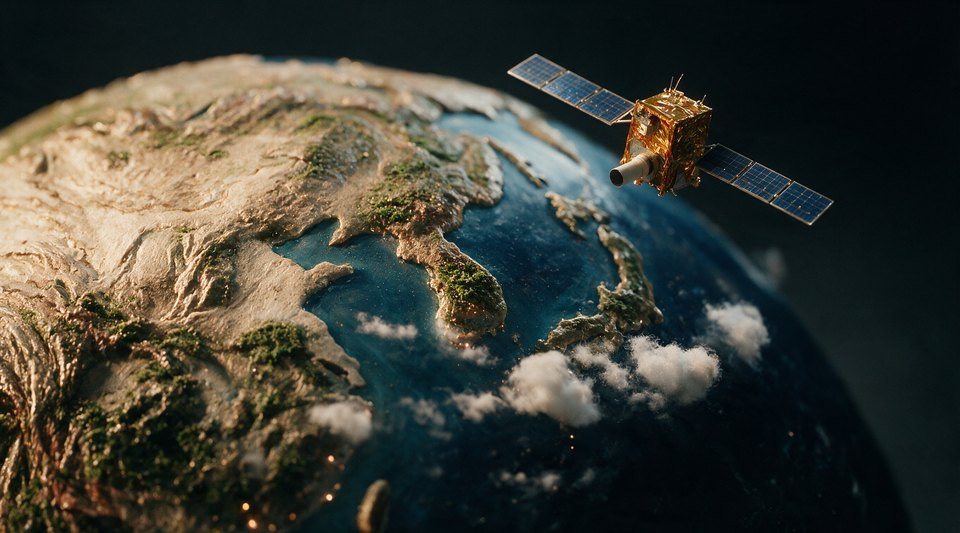
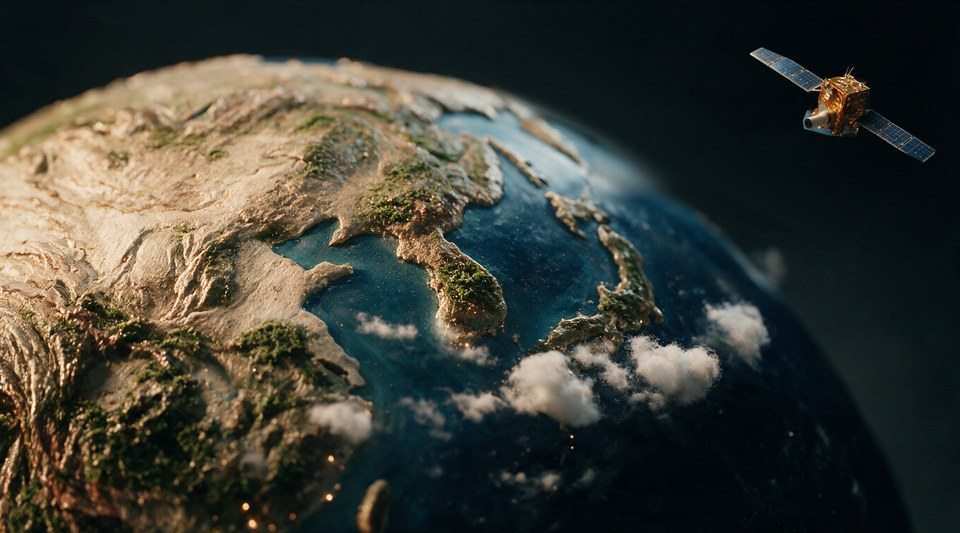
feat(anchors): rev.3m — A02 합성, rev.3l 위성 60 % 축소해 지구본 밖 우상 재배치·림 방향 이방성 치유 (kie 호출 0, 크레딧 0)
- tools/proto/a02-rev3m-composite.py: 실루엣 다각형∩색 키 매트(grabCut 폐기), 림 29° 정렬 이방성 정규화 컨볼루션 치유
- 날개폭 33.8 % → 19.4 %, A02.v3l.* 백업, sheet 3l|3m, review A02-new.jpg, 캡션, md §18

Claude-Session: https://claude.ai/code/session_01WM9MJXSpdbCfwY8af3obk9

Changed region(s): [[0.5312, 0.0901, 0.875, 0.4203], [0.7812, 0.0901, 0.9688, 0.3002]]

diff --git a/landxi/proto/film/anchors.html b/landxi/proto/film/anchors.html
@@ -1,4 +1,4 @@
 <!doctype html><html lang="ko"><head><meta charset="utf-8"><title>앵커 스틸 v3</title>
 <link rel="stylesheet" href="../fonts-system.css"><style>body{margin:0;background:#010102;color:#ccc;font:14px/1.5 Pretendard,system-ui,sans-serif}h1{font-family:Paperlogy,Pretendard,sans-serif;font-weight:700;font-size:18px;letter-spacing:.06em;padding:20px 24px;margin:0;border-bottom:1px solid #272727}
 .g{display:grid;grid-template-columns:repeat(auto-fill,minmax(440px,1fr));gap:24px;padding:24px}figure{margin:0}img{width:100%;display:block;border:1px solid #272727}figcaption{padding:8px 2px;font-size:14px;color:#8a8a8a;letter-spacing:.04em}</style></head>
-<body><h1>앵커 스틸 · 14장</h1><div class="g"><figure><img src="../../assets/proto/film/legs/anchors-v3/A01.jpg" loading="lazy"><figcaption>A01 모형 지구본 — 링·암 제거, 우상 전경에 국토위성(CAS500-1)형 모형: 금박 버스 + 청색 태양전지 날개 2 + 흰 망원경 배럴, rev.3i 위성을 잘라 50 % 축소해 한반도 상공 우상에 합성(날개폭 프레임 폭 13.6 %), 원위치는 암부 클론으로 치유 (rev.3k, 합성 · 크레딧 0 · 클라이언트 검토용)</figcaption></figure><figure><img src="../../assets/proto/film/legs/anchors-v3/A02.jpg" loading="lazy"><figcaption>A02 고궤도·한반도 — 링 제거, A01 과 같은 국토위성(CAS500-1)형 모형이 우상 한반도 상공 (rev.3l, 1회 리롤 · 위성이 요청보다 큼 ~33 %)</figcaption></figure><figure><img src="../../assets/proto/film/legs/anchors-v3/A03.jpg" loading="lazy"><figcaption>A03 구름 천장 — 드론 흰 본체·검정 프로펠러·초록 LX 마크(D16 ①), 하단 1/3 공중 부양, 항공기 우상단 (rev.3l, 1회 리롤)</figcaption></figure><figure><img src="../../assets/proto/film/legs/anchors-v3/A04.jpg" loading="lazy"><figcaption>A04 능선 너머 남원 분지 — 소품 0 (rev.3)</figcaption></figure><figure><img src="../../assets/proto/film/legs/anchors-v3/A05.jpg" loading="lazy"><figcaption>A05 남원 평야·농지이용 — 프롭 0, 회색 판 제거 (rev.3d, 1회 리롤 · 좌측 도로 환각)</figcaption></figure><figure><img src="../../assets/proto/film/legs/anchors-v3/A06.jpg" loading="lazy"><figcaption>A06 금지면 비닐하우스 — 프롭 0, 구름·좌측 구조물 제거 (rev.3e, 1회 리롤)</figcaption></figure><figure><img src="../../assets/proto/film/legs/anchors-v3/A06b.jpg" loading="lazy"><figcaption>A06b 남원 상공 고고도 — 같은 온실 군락이 중앙-좌에 그대로, 카메라만 상승·곡률·헤이즈 (rev.3f, 1회 리롤)</figcaption></figure><figure><img src="../../assets/proto/film/legs/anchors-v3/A07.jpg" loading="lazy"><figcaption>A07 지구본 이동→여수 — 농지가 해안까지 완만히 내려와 마을과 같은 높이, 고원·절벽 없음 (rev.3e, 1회 리롤)</figcaption></figure><figure><img src="../../assets/proto/film/legs/anchors-v3/A08.jpg" loading="lazy"><figcaption>A08 여수 국동항·해양쓰레기 — 방파제 발치 해안선 클로즈업, 조간대 스티로폼·부표·그물 다량 (rev.3f, 1회 리롤)</figcaption></figure><figure><img src="../../assets/proto/film/legs/anchors-v3/A08b.jpg" loading="lazy"><figcaption>A08b 여수 상공 고고도 — 방파제·항만이 좌하 멀리, 코발트 바다 하단 절반, 곡률·헤이즈, 북동 원경에 영남 능선 시작 (rev.3g, 신규 1회)</figcaption></figure><figure><img src="../../assets/proto/film/legs/anchors-v3/A09.jpg" loading="lazy"><figcaption>A09 지구본 이동→울주 — A08b 와 같은 지형을 북동 이동·하강해 본 것, 같은 해안선 좌하로, 이끼 능선·펠트 필지가 프레임 채움, 급경사지 절개면, 마을·항만 없음 (rev.3h, 1회 리롤)</figcaption></figure><figure><img src="../../assets/proto/film/legs/anchors-v3/A10.jpg" loading="lazy"><figcaption>A10 산림식생·급경사지</figcaption></figure><figure><img src="../../assets/proto/film/legs/anchors-v3/A11.jpg" loading="lazy"><figcaption>A11 불법소각 — 산자락 소면적 공터, 연소 중</figcaption></figure><figure><img src="../../assets/proto/film/legs/anchors-v3/A12.jpg" loading="lazy"><figcaption>A12 국토 변화(데이터 관점) — 황동 격자·측정 셀 점등, 링 없음, 소형 국토위성이 우상에 복귀 (rev.3l, 1회 리롤)</figcaption></figure></div></body></html>
+<body><h1>앵커 스틸 · 14장</h1><div class="g"><figure><img src="../../assets/proto/film/legs/anchors-v3/A01.jpg" loading="lazy"><figcaption>A01 모형 지구본 — 링·암 제거, 우상 전경에 국토위성(CAS500-1)형 모형: 금박 버스 + 청색 태양전지 날개 2 + 흰 망원경 배럴, rev.3i 위성을 잘라 50 % 축소해 한반도 상공 우상에 합성(날개폭 프레임 폭 13.6 %), 원위치는 암부 클론으로 치유 (rev.3k, 합성 · 크레딧 0 · 클라이언트 검토용)</figcaption></figure><figure><img src="../../assets/proto/film/legs/anchors-v3/A02.jpg" loading="lazy"><figcaption>A02 고궤도·한반도 — 링 제거, A01 과 같은 국토위성(CAS500-1)형 모형, rev.3l 위성(날개폭 33.8 %)을 잘라 60 % 축소해 지구본 밖 우상 암부에 합성(날개폭 19.4 %, 배럴 한반도 쪽), 원위치는 림 방향 이방성 클론으로 치유 (rev.3m, 합성 · 크레딧 0)</figcaption></figure><figure><img src="../../assets/proto/film/legs/anchors-v3/A03.jpg" loading="lazy"><figcaption>A03 구름 천장 — 드론 흰 본체·검정 프로펠러·초록 LX 마크(D16 ①), 하단 1/3 공중 부양, 항공기 우상단 (rev.3l, 1회 리롤)</figcaption></figure><figure><img src="../../assets/proto/film/legs/anchors-v3/A04.jpg" loading="lazy"><figcaption>A04 능선 너머 남원 분지 — 소품 0 (rev.3)</figcaption></figure><figure><img src="../../assets/proto/film/legs/anchors-v3/A05.jpg" loading="lazy"><figcaption>A05 남원 평야·농지이용 — 프롭 0, 회색 판 제거 (rev.3d, 1회 리롤 · 좌측 도로 환각)</figcaption></figure><figure><img src="../../assets/proto/film/legs/anchors-v3/A06.jpg" loading="lazy"><figcaption>A06 금지면 비닐하우스 — 프롭 0, 구름·좌측 구조물 제거 (rev.3e, 1회 리롤)</figcaption></figure><figure><img src="../../assets/proto/film/legs/anchors-v3/A06b.jpg" loading="lazy"><figcaption>A06b 남원 상공 고고도 — 같은 온실 군락이 중앙-좌에 그대로, 카메라만 상승·곡률·헤이즈 (rev.3f, 1회 리롤)</figcaption></figure><figure><img src="../../assets/proto/film/legs/anchors-v3/A07.jpg" loading="lazy"><figcaption>A07 지구본 이동→여수 — 농지가 해안까지 완만히 내려와 마을과 같은 높이, 고원·절벽 없음 (rev.3e, 1회 리롤)</figcaption></figure><figure><img src="../../assets/proto/film/legs/anchors-v3/A08.jpg" loading="lazy"><figcaption>A08 여수 국동항·해양쓰레기 — 방파제 발치 해안선 클로즈업, 조간대 스티로폼·부표·그물 다량 (rev.3f, 1회 리롤)</figcaption></figure><figure><img src="../../assets/proto/film/legs/anchors-v3/A08b.jpg" loading="lazy"><figcaption>A08b 여수 상공 고고도 — 방파제·항만이 좌하 멀리, 코발트 바다 하단 절반, 곡률·헤이즈, 북동 원경에 영남 능선 시작 (rev.3g, 신규 1회)</figcaption></figure><figure><img src="../../assets/proto/film/legs/anchors-v3/A09.jpg" loading="lazy"><figcaption>A09 지구본 이동→울주 — A08b 와 같은 지형을 북동 이동·하강해 본 것, 같은 해안선 좌하로, 이끼 능선·펠트 필지가 프레임 채움, 급경사지 절개면, 마을·항만 없음 (rev.3h, 1회 리롤)</figcaption></figure><figure><img src="../../assets/proto/film/legs/anchors-v3/A10.jpg" loading="lazy"><figcaption>A10 산림식생·급경사지</figcaption></figure><figure><img src="../../assets/proto/film/legs/anchors-v3/A11.jpg" loading="lazy"><figcaption>A11 불법소각 — 산자락 소면적 공터, 연소 중</figcaption></figure><figure><img src="../../assets/proto/film/legs/anchors-v3/A12.jpg" loading="lazy"><figcaption>A12 국토 변화(데이터 관점) — 황동 격자·측정 셀 점등, 링 없음, 소형 국토위성이 우상에 복귀 (rev.3l, 1회 리롤)</figcaption></figure></div></body></html>

diff --git a/tools/proto/a02-rev3m-composite.py b/tools/proto/a02-rev3m-composite.py
@@ -1,0 +1,102 @@
+#!/usr/bin/env python
+# -*- coding: utf-8 -*-
+"""A02 rev.3m — rev.3l 위성(날개폭 프레임 폭 ≈33 %)만 잘라 60 % 축소, 우상 암부(지구본 밖)로 재배치, 원위치는 배경 클론으로 치유. 크레딧 0.
+rev.3k(tools/proto/a01-rev3k-composite.py) 와 같은 방법.
+
+  python tools/proto/a02-rev3m-composite.py [shots_dir]
+"""
+import sys
+from pathlib import Path
+import numpy as np, cv2
+from PIL import Image
+
+ROOT = Path(__file__).resolve().parents[2]
+DIR = ROOT / 'landxi/assets/proto/film/legs/anchors-v3'
+SCR = Path(sys.argv[1]) if len(sys.argv) > 1 else ROOT / 'shots/kie'
+SCALE = 0.6
+ROT = -6.0          # deg, ccw+ : 배럴(좌하)을 한반도 쪽으로 조금 더 숙임
+LUM_T, BLUE_T = 40, 18
+HEAL_DIL, LOW_SIG, LIMB_ANG = 25, 20, 29.0   # LIMB_ANG: 디포커스 림 기울기(deg, 우하향)   # rev.3k 는 41/60 — 여기선 좌 날개가 디포커스 림 헤이즈 위라 좁은 시그마로 그라데이션 보존
+DEST = (2400, 300)  # 새 위성 중심 (full-res 2736x1520) — 지구본 림 밖 암부
+
+src = np.asarray(Image.open(DIR / 'A02.v3l.png').convert('RGB')).astype(np.float32)
+H, W, _ = src.shape
+
+# 1) 위성 매트: 수동 실루엣 다각형(넉넉히) ∩ 색 키(암부 우주 배경 대비 밝기/청색) → 닫힘·구멍 채움.
+#    grabCut 은 지구본 헤이즈를 삼키고 버스 그늘면·짙은 셀을 놓쳐 폐기.
+x0, y0, x1, y1 = 1400, 100, 2450, 700
+roi = np.ascontiguousarray(src[y0:y1, x0:x1].astype(np.uint8))
+f = roi.astype(np.float32); lum = f.max(axis=2); blue = f[..., 2] - f[..., 1]
+SIL = np.array([(60, 58), (415, 168), (500, 172), (508, 110), (540, 115), (600, 170), (632, 205), (645, 300), (978, 445), (945, 540),
+                (585, 400), (560, 450), (455, 450), (340, 432), (330, 395), (345, 345), (395, 330), (390, 262), (345, 262), (42, 110)], np.int32)  # ROI 좌표
+poly = np.zeros(roi.shape[:2], np.uint8); cv2.fillPoly(poly, [SIL], 1)
+key = ((poly > 0) & ((lum > LUM_T) | (blue > BLUE_T))).astype(np.uint8)
+BUS = np.array([(408, 180), (500, 172), (585, 165), (628, 212), (636, 300), (600, 385), (588, 445), (462, 448), (455, 430), (400, 340), (398, 262), (405, 180)], np.int32)
+cv2.fillPoly(key, [BUS], 1)                                                # 버스 그늘면(lum≈23, 배경과 동급)은 다각형으로 강제
+key = cv2.morphologyEx(key, cv2.MORPH_CLOSE, np.ones((7, 7), np.uint8))
+ff = key.copy(); hh, ww = key.shape
+mask = np.zeros((hh + 2, ww + 2), np.uint8); cv2.floodFill(ff, mask, (0, 0), 1)
+key = (key | (1 - ff)).astype(np.uint8)                                   # 버스 내부 구멍 채움
+n, lab, st, _ = cv2.connectedComponentsWithStats(key, 8)
+areas = st[:, cv2.CC_STAT_AREA].copy(); areas[0] = 0
+key = np.isin(lab, np.argsort(areas)[::-1][:3]).astype(np.uint8)          # 본체+날개 덩어리만
+ys, xs = np.where(key); bx0, bx1, by0, by1 = xs.min(), xs.max(), ys.min(), ys.max()
+print('satellite bbox (full-res)', x0 + bx0, y0 + by0, x0 + bx1, y0 + by1, 'w=', bx1 - bx0, f'{(bx1-bx0)/W*100:.1f}% of W')
+alpha = cv2.GaussianBlur(key.astype(np.float32), (0, 0), 1.2)
+alpha = np.clip((alpha - 0.25) / 0.6, 0, 1)
+alpha = cv2.dilate(alpha, np.ones((3, 3), np.uint8))
+alpha = cv2.GaussianBlur(alpha, (0, 0), 0.8)
+vis = roi.copy(); cv2.polylines(vis, [SIL], True, (0, 255, 0), 1); vis[key > 0] = (vis[key > 0] * 0.4 + np.array([255, 0, 255]) * 0.6).astype(np.uint8)
+Image.fromarray(vis).save(SCR / 'A02-v3m-key.png')
+
+# 2) 치유: 위성 영역을 인접 암부로 채움 (정규화 컨볼루션 저주파 + 배경 그레인)
+near = cv2.dilate(poly, np.ones((61, 61), np.uint8))
+extra = (near > 0) & (lum > 35)                                             # 실루엣 밖 얇은 날개 림·부속물도 치유 대상
+heal = cv2.dilate((key | extra).astype(np.uint8), np.ones((HEAL_DIL, HEAL_DIL), np.uint8))
+full_heal = np.zeros((H, W), np.uint8); full_heal[y0:y1, x0:x1] = heal
+clean = (1 - full_heal).astype(np.float32)
+# 림 방향 이방성 정규화 컨볼루션: 이 자리 배경은 디포커스 림(약 +29°, 우하향)을 따라 평행 이동 불변이므로, 림이 수평이 되게 돌린 뒤
+# 림 방향으로는 길고(σx) 림을 가로질러서는 짧은(σy) 가우시안으로 채운다. 등방성으로 채우면 아래 밝은 바다 헤이즈가 우주로 번져 '안개 혀'가 생김.
+diag = int(np.hypot(H, W)) + 2; cx, cy = W / 2, H / 2
+Mr = cv2.getRotationMatrix2D((cx, cy), LIMB_ANG, 1.0); Mr[0, 2] += diag / 2 - cx; Mr[1, 2] += diag / 2 - cy
+Mi = cv2.invertAffineTransform(Mr)
+rot = lambda im: cv2.warpAffine(im, Mr, (diag, diag), flags=cv2.INTER_LINEAR, borderValue=0)
+src_r = rot(src); clean_r = rot(clean) * rot(np.ones((H, W), np.float32))   # 캔버스 밖은 clean 0
+low_r = None
+for sx, sy in ((LOW_SIG * 12, LOW_SIG), (LOW_SIG * 6, LOW_SIG * 0.6), (LOW_SIG * 3, LOW_SIG * 0.4)):   # 굵은 → 고운 순
+    num = cv2.GaussianBlur(src_r * clean_r[..., None], (0, 0), sigmaX=sx, sigmaY=sy); den = cv2.GaussianBlur(clean_r, (0, 0), sigmaX=sx, sigmaY=sy)[..., None]
+    cur = num / np.maximum(den, 1e-3); w = np.clip(den / 0.25, 0, 1)
+    low_r = cur if low_r is None else low_r * (1 - w) + cur * w
+low = cv2.warpAffine(low_r, Mi, (W, H), flags=cv2.INTER_LINEAR)
+grain_src = src[100:500, 2450:2736]        # 우상 clean 암부
+g = grain_src - cv2.GaussianBlur(grain_src, (0, 0), 14)
+tile = np.pad(g, ((0, H), (0, W), (0, 0)), mode='reflect')[:H, :W]
+healed = low + tile
+hm = cv2.GaussianBlur(full_heal.astype(np.float32), (0, 0), 8)[..., None]
+plate = src * (1 - hm) + healed * hm
+
+# 3) 위성 축소·회전·배치
+sat = roi[by0:by1 + 1, bx0:bx1 + 1]; a = alpha[by0:by1 + 1, bx0:bx1 + 1]
+rgba = np.dstack([sat, a[..., None] * 255]).astype(np.float32)
+sh, sw = rgba.shape[:2]
+M = cv2.getRotationMatrix2D((sw / 2, sh / 2), ROT, SCALE)
+out_w, out_h = int(sw * 0.7), int(sh * 0.9)
+M[0, 2] += out_w / 2 - sw / 2; M[1, 2] += out_h / 2 - sh / 2
+small = cv2.warpAffine(rgba, M, (out_w, out_h), flags=cv2.INTER_AREA, borderValue=(0, 0, 0, 0))
+sa = small[..., 3:4] / 255
+ys, xs = np.where(sa[..., 0] > 0.02)
+print('placed wingspan', xs.max() - xs.min(), f'{(xs.max()-xs.min())/W*100:.1f}% of W')
+px, py = DEST[0] - out_w // 2, DEST[1] - out_h // 2
+region = plate[py:py + out_h, px:px + out_w]
+plate[py:py + out_h, px:px + out_w] = region * (1 - sa) + small[..., :3] * sa
+print('placed bbox', px + xs.min(), py + ys.min(), px + xs.max(), py + ys.max())
+
+out = Image.fromarray(np.clip(plate, 0, 255).astype(np.uint8))
+out.save(DIR / 'A02.png'); out.save(DIR / 'A02.jpg', quality=92)
+out.resize((1280, round(1280 * H / W)), Image.LANCZOS).save(DIR / 'A02.1280.jpg', quality=90)
+# 검토용 100 % 크롭 (치유부 + 새 위성) 및 3.5× 게인
+crop = np.clip(plate[0:760, 1350:2736], 0, 255)
+Image.fromarray(crop.astype(np.uint8)).save(SCR / 'A02-v3m-crop100.png')
+Image.fromarray(np.clip(crop * 3.5, 0, 255).astype(np.uint8)).save(SCR / 'A02-v3m-crop100-gain.png')
+Image.fromarray(np.clip(np.hstack([src[0:760, 1350:2736], plate[0:760, 1350:2736]]), 0, 255).astype(np.uint8)).resize((1386, 380)).save(SCR / 'A02-v3m-heal-ab.png')
+print('done')

diff --git a/docs/superpowers/proto/2026-08-26-anchors-v3.md b/docs/superpowers/proto/2026-08-26-anchors-v3.md
@@ -1278,3 +1278,33 @@ The peninsula stays dead centre and in frame throughout, the etched brass grid s
 
 - 클라이언트 확인 → leg 1/2/3/11/12 영상 재생성(모션 프롬프트는 이미 rev.3l 로 갱신, §17-2). §16-4 대로 leg 1 하나 먼저 돌려 kling 이 위성을 키우지 않는지 확인.
 - A02 위성 축소·A03 LX 마크 교체는 합성(크레딧 0) 옵션.
+
+## 18. 실행 기록 — 2026-08-29 rev.3m A02 합성 — rev.3l 위성 60 % 축소 재배치 (kie 호출 0, 크레딧 0)
+
+§17-4 의 △(A02 위성 33 %) 를 §17-5 옵션대로 **리롤 없이 합성**. 목표 ≈20 % (leg 1 dolly-in: A01 rev.3k 13.6 % 의 ≈1.5배).
+
+### 18-1. 방법 (`tools/proto/a02-rev3m-composite.py`, Python · OpenCV · PIL, 결정적·재실행 가능 — rev.3k 스크립트 기반)
+
+| 단계 | 내용 |
+|---|---|
+| 베이스 | `A02.v3l.png` (2736×1520, rev.3l 백업 `A02.v3l.png/.jpg`). |
+| 매트 | rev.3k 의 grabCut 은 여기선 **지구본 헤이즈를 삼키고 버스 그늘면(lum≈23, 배경과 동급)·짙은 셀을 놓쳐 폐기**. 대신 수동 실루엣 다각형(20점, 넉넉히) ∩ 색 키(lum>40 ∨ B−G>18) → 7px 닫힘 → 구멍 채움, 버스는 별도 14점 다각형으로 강제. 경계 σ1.2 페더 + 3px 확장. 원본 날개폭 926 px(프레임 폭 33.8 %). |
+| 치유 | 매트 ∪ (실루엣 근방 lum>35 얇은 림·부속물) 을 25 px 확장. 저주파는 **림 방향 이방성 정규화 컨볼루션**: 디포커스 림이 +29° 우하향이라 프레임을 29° 돌려 림을 수평으로 만든 뒤 σx 240/120/60 × σy 20/12/8 (굵은→고운, clean 지지 충분한 곳만 고운 값) 로 채우고 되돌림. rev.3k 의 등방성 σ60 은 아래 밝은 바다 헤이즈를 우주로 끌어올려 **회색 '안개 혀'** 가 생겼고, σ30 은 버스 중심(지지 0)이 검게 꺼졌다. 고주파는 우상 clean 암부(x 2450–2736, y 100–500) 그레인 σ14 고역 reflect 타일링, σ8 소프트 마스크 블렌드. |
+| 축소·배치 | 60 % (INTER_AREA), −6° 회전. 중심 (2400, 300) → bbox x 2135–2667, y 132–466, **날개폭 532 px = 프레임 폭 19.4 %**. 지구본 림 밖 순수 암부, 겹침 없음, 흰 배럴 좌하(한반도 방향). |
+| 산출 | `A02.png/.jpg`, `A02.1280.jpg`, `shots/kie/anchors-v3m-sheet.jpg`(3l \| 3m), `shots/kie/A02-v3m-crop100.png`, `landxi/assets/proto/review/A02-new.jpg`(960w, 덮어씀). |
+
+### 18-2. 크레딧
+
+kie 호출 **0**, 과금 **0**. 잔액 9117.0 유지.
+
+### 18-3. 판정 (100 % 크롭 + 3.5× 게인 검사)
+
+| 항목 | 판정 | 근거 |
+|---|:-:|---|
+| 위성 크기 | **○** | 33.8 % → 19.4 %, 목표 ≈20 %. A01 13.6 % → A02 19.4 % → A12 ≈18 % 로 세 스틸의 위성 크기가 dolly 배율 안에서 일관. |
+| 위치·조준 | **○** | 지구본 밖 우상 암부, 배럴 좌하(한반도). 3.5× 게인에서도 위성 주변에 밝기 단차·페더 링 없음. |
+| 매트 품질 | **○** | 날개 셀 격자·안테나·버스 그늘면·배럴 가장자리 깨끗, 검은 테두리·헤일로 없음. |
+| 치유 seam | **○** | 노출 정상에서 위치 식별 불가 — 디포커스 림 그라데이션이 원위치를 그대로 관통. 3.5× 게인에서만 림 아래 헤이즈 밴드가 좌우보다 아주 조금 균질(그레인 곱음). |
+| 연속성 | **○** | 위성 외 픽셀은 rev.3l 그대로 — 한반도 face-on 프레이밍, 구름, 조명 불변. leg 1·2 씸 영향 없음. |
+
+**총평: 채택 권장.** A02 기준을 rev.3m 으로 올린다. 남은 합성 옵션은 A03 LX 마크 교체(§17-4).
